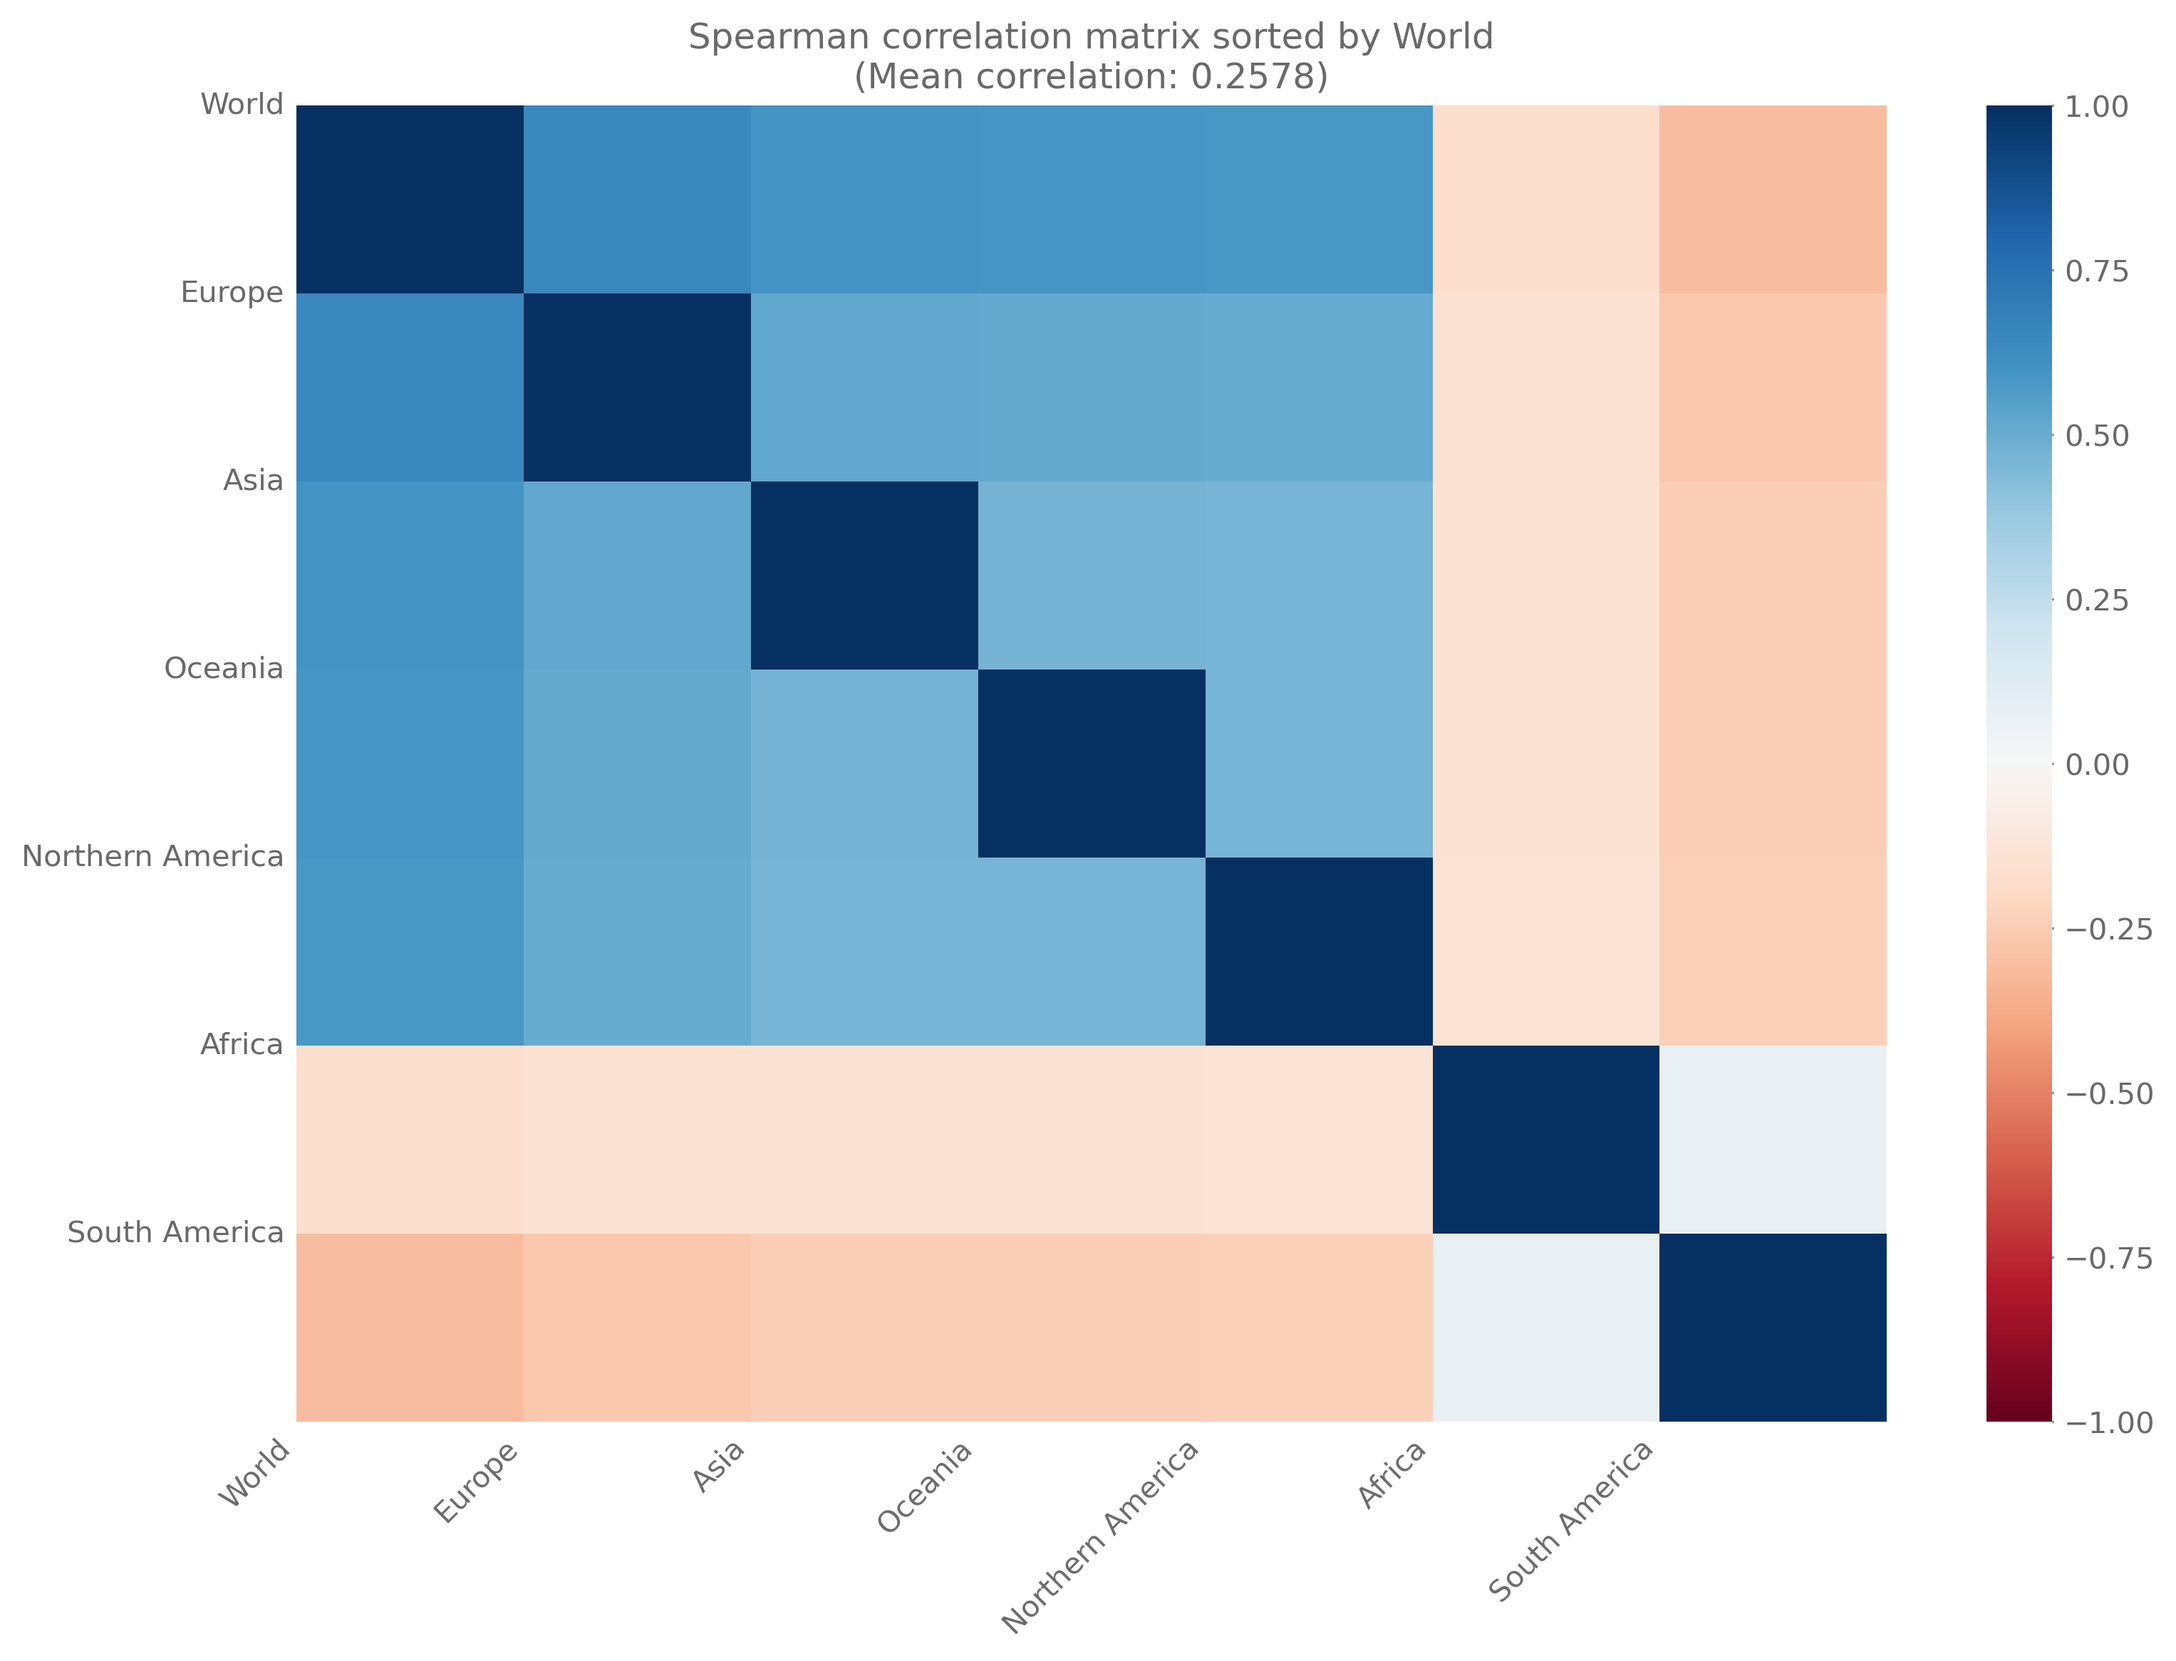
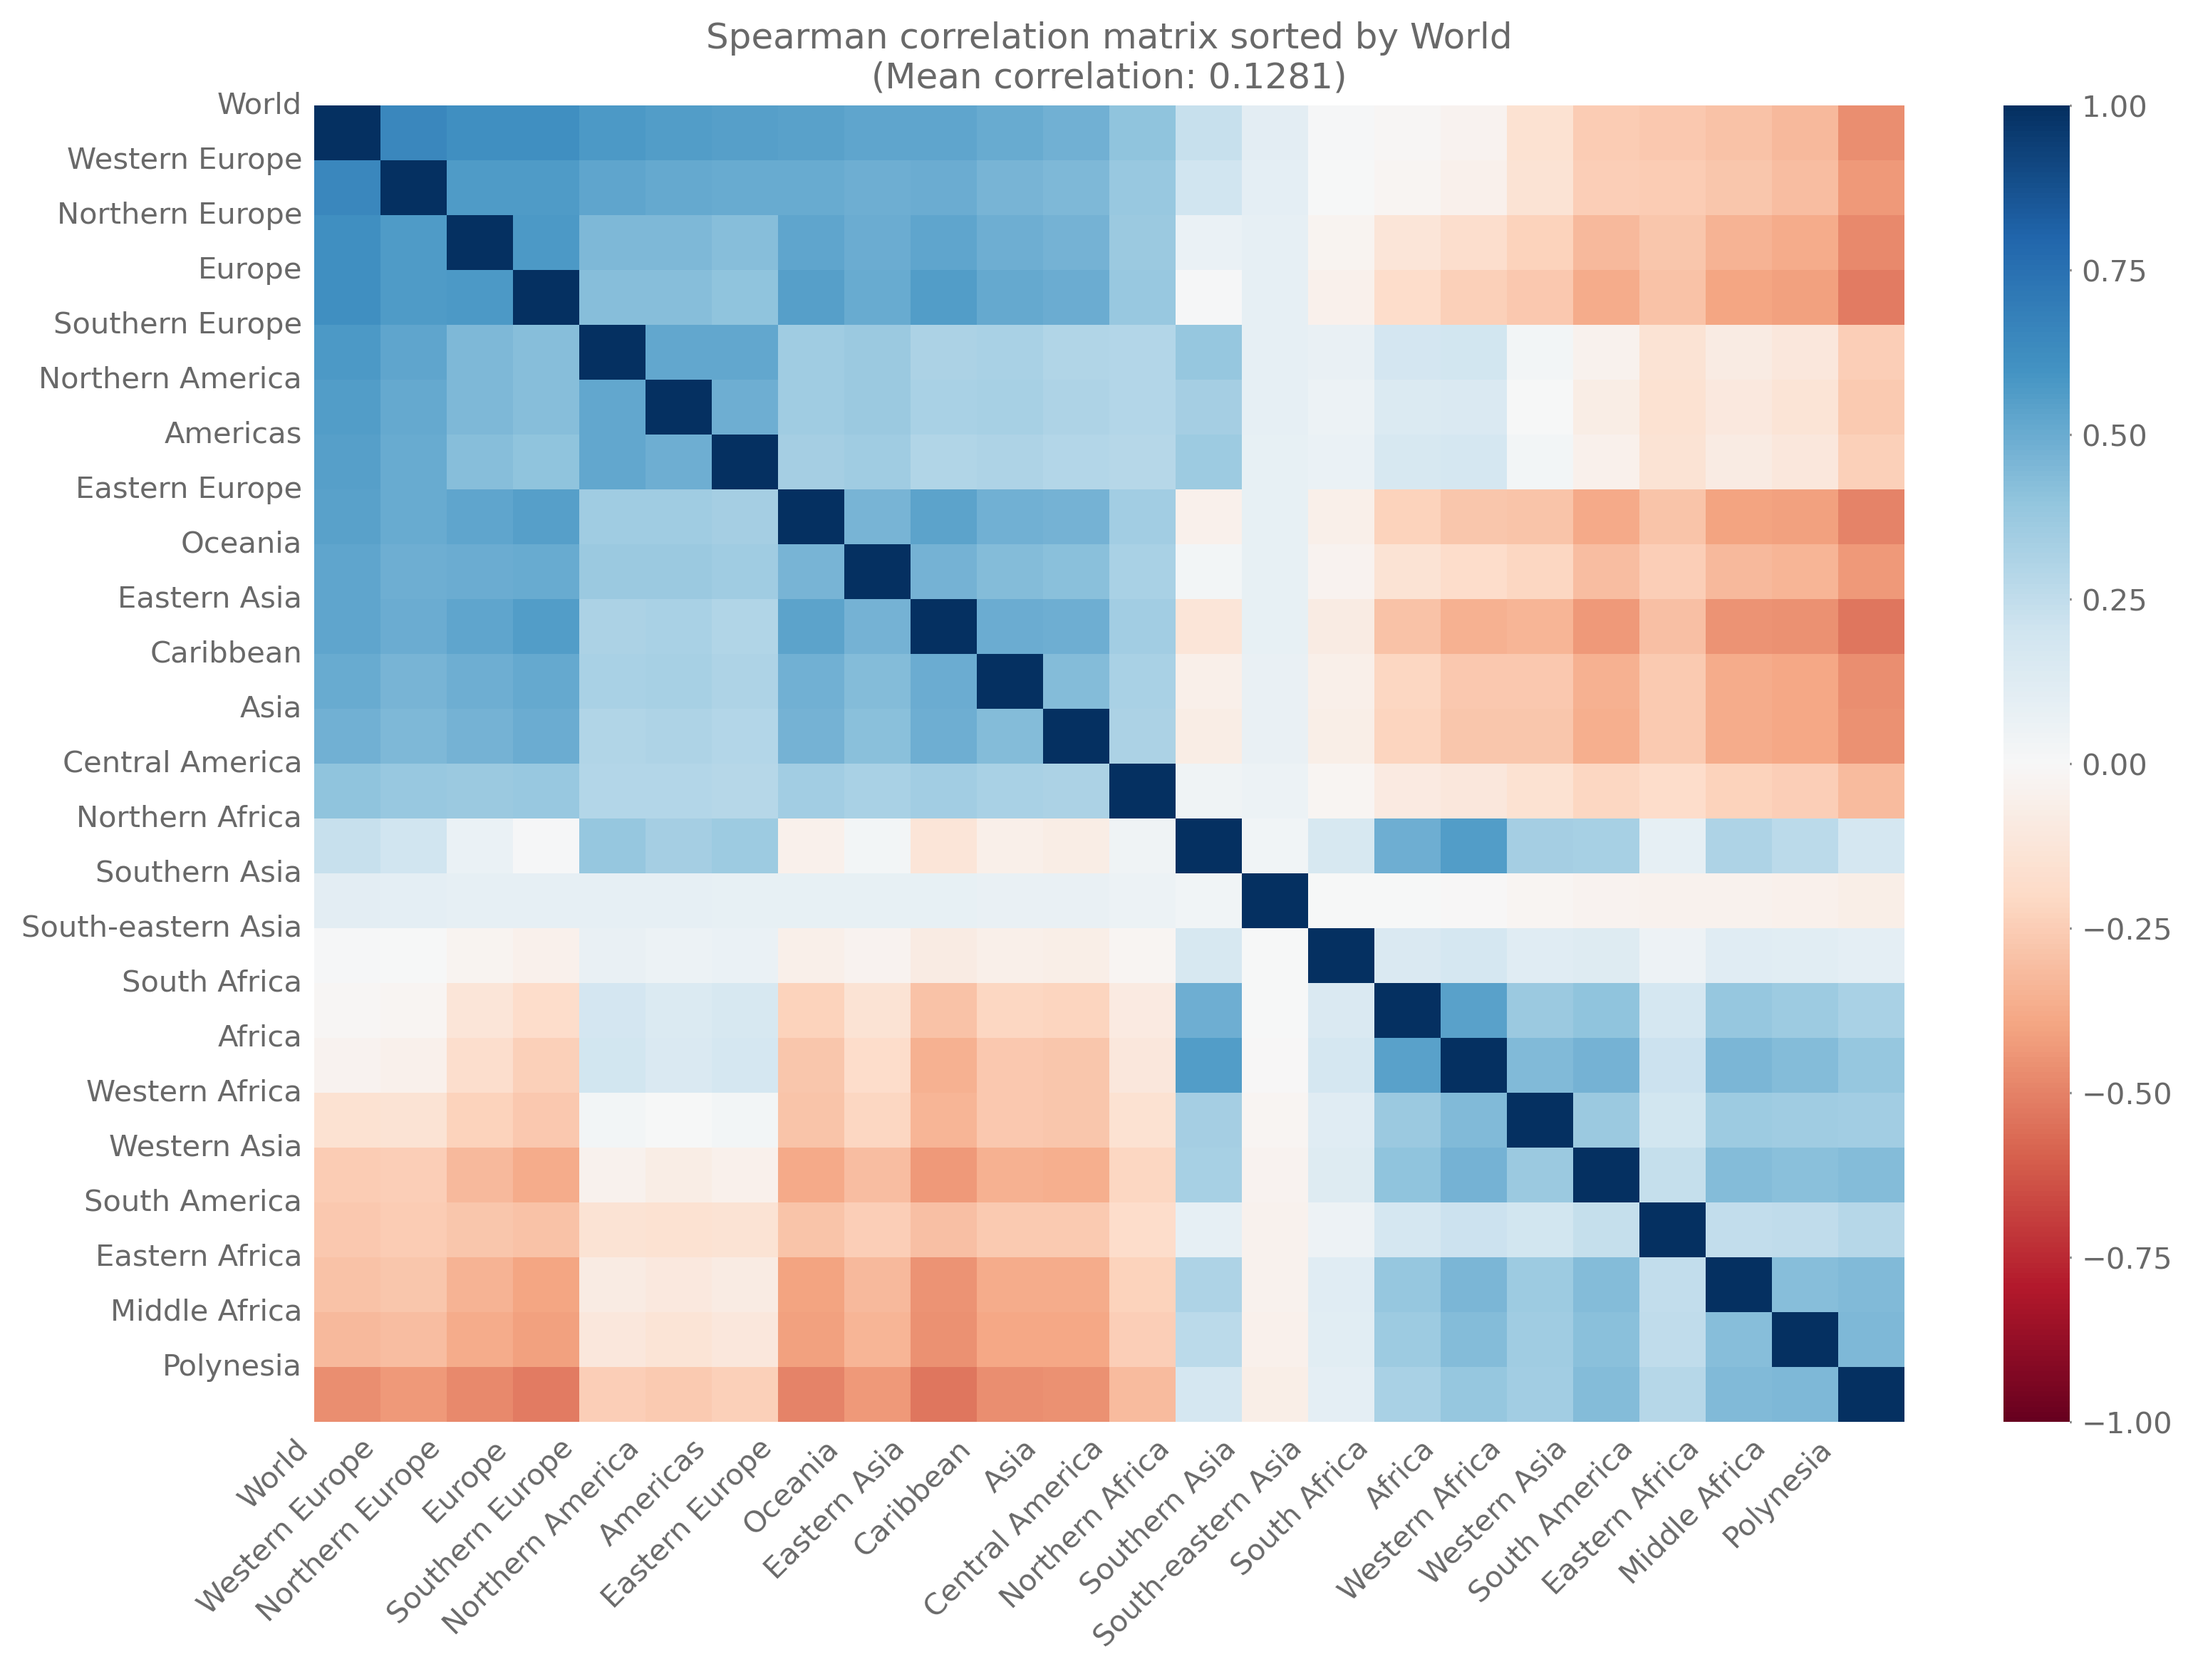
Removed Gephi attempts again

diff --git a/src/plot_country_world_correlations.py b/src/plot_country_world_correlations.py
@@ -52,17 +52,6 @@ def load_data():
 
     print(f"Loaded calorie data for {len(calories_countries)} countries")
 
-    # Only keep the main continents in the regions DataFrame
-    continents = [
-        "Africa",
-        "Asia",
-        "Europe",
-        "Northern America",
-        "South America",
-        "Oceania",
-    ]
-    yield_changes_regions = yield_changes_regions.loc[continents]
-
     return (
         calories_countries,
         world_calories,
